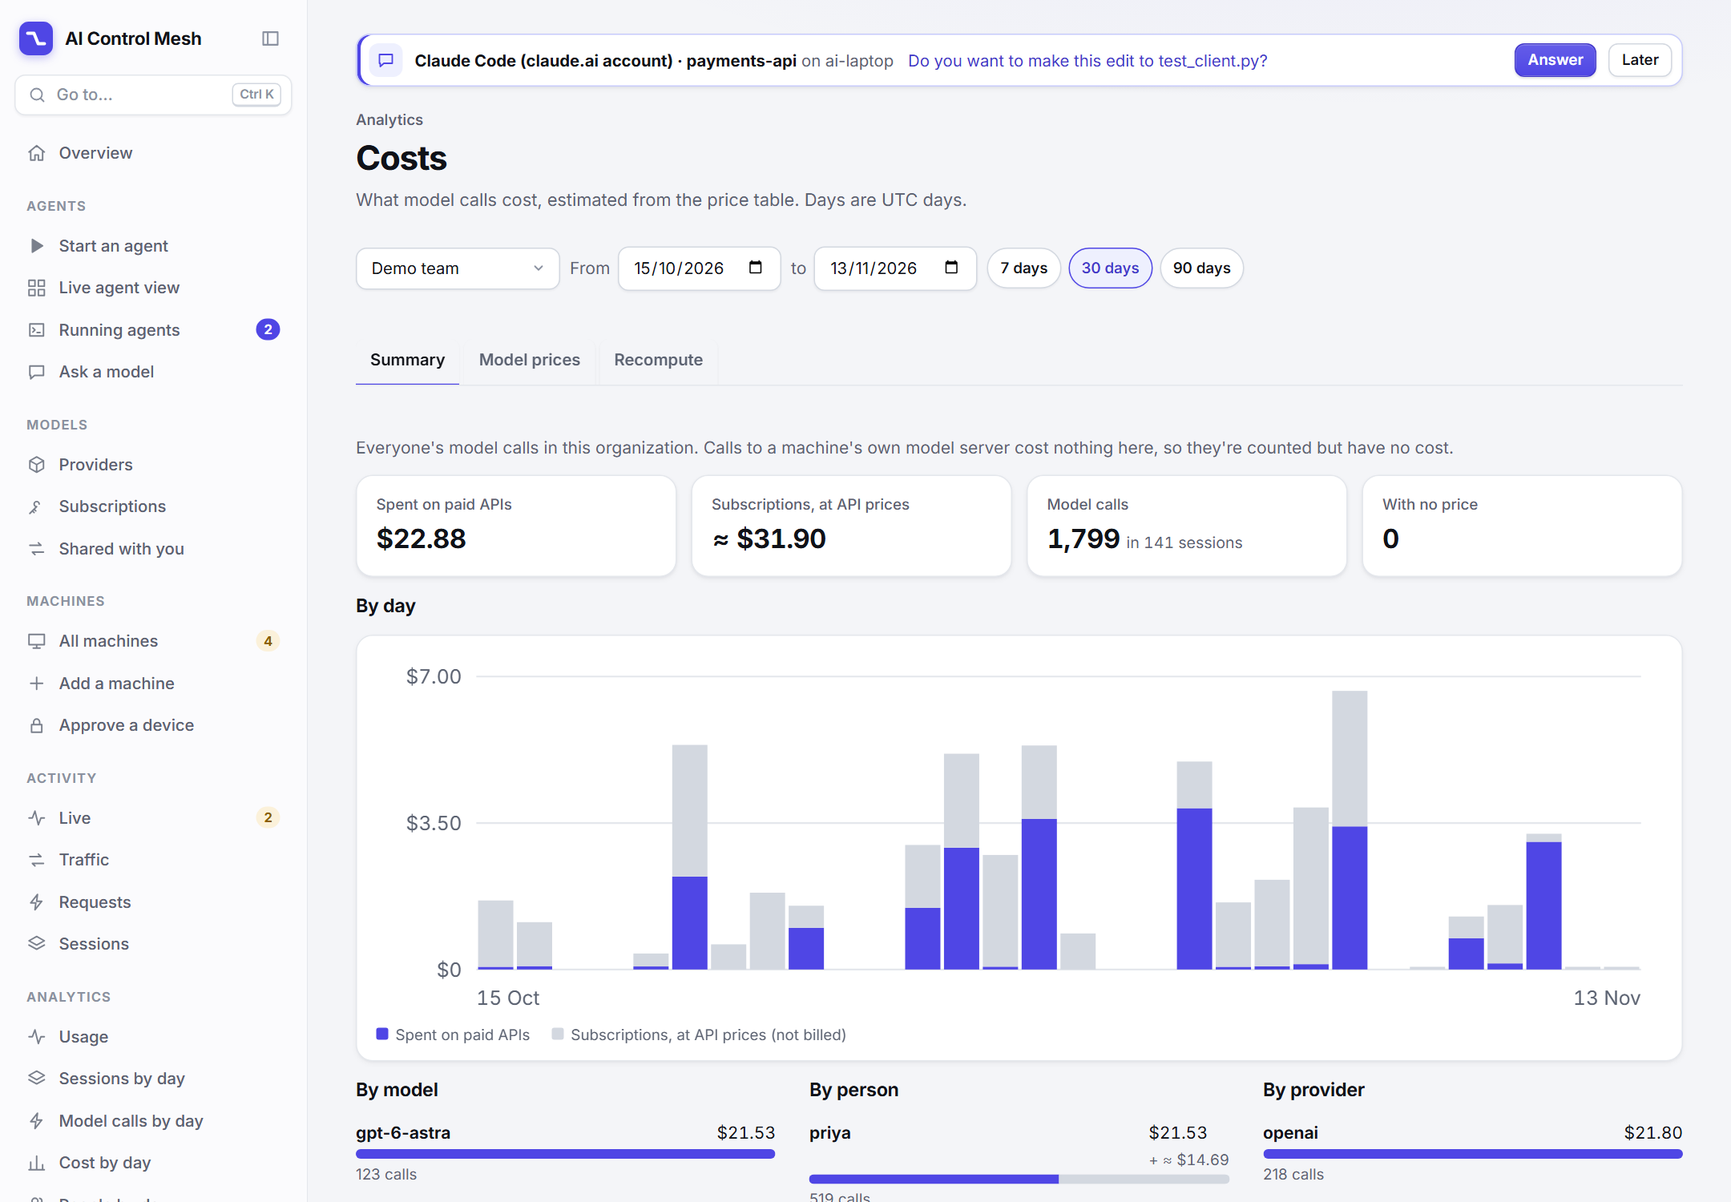
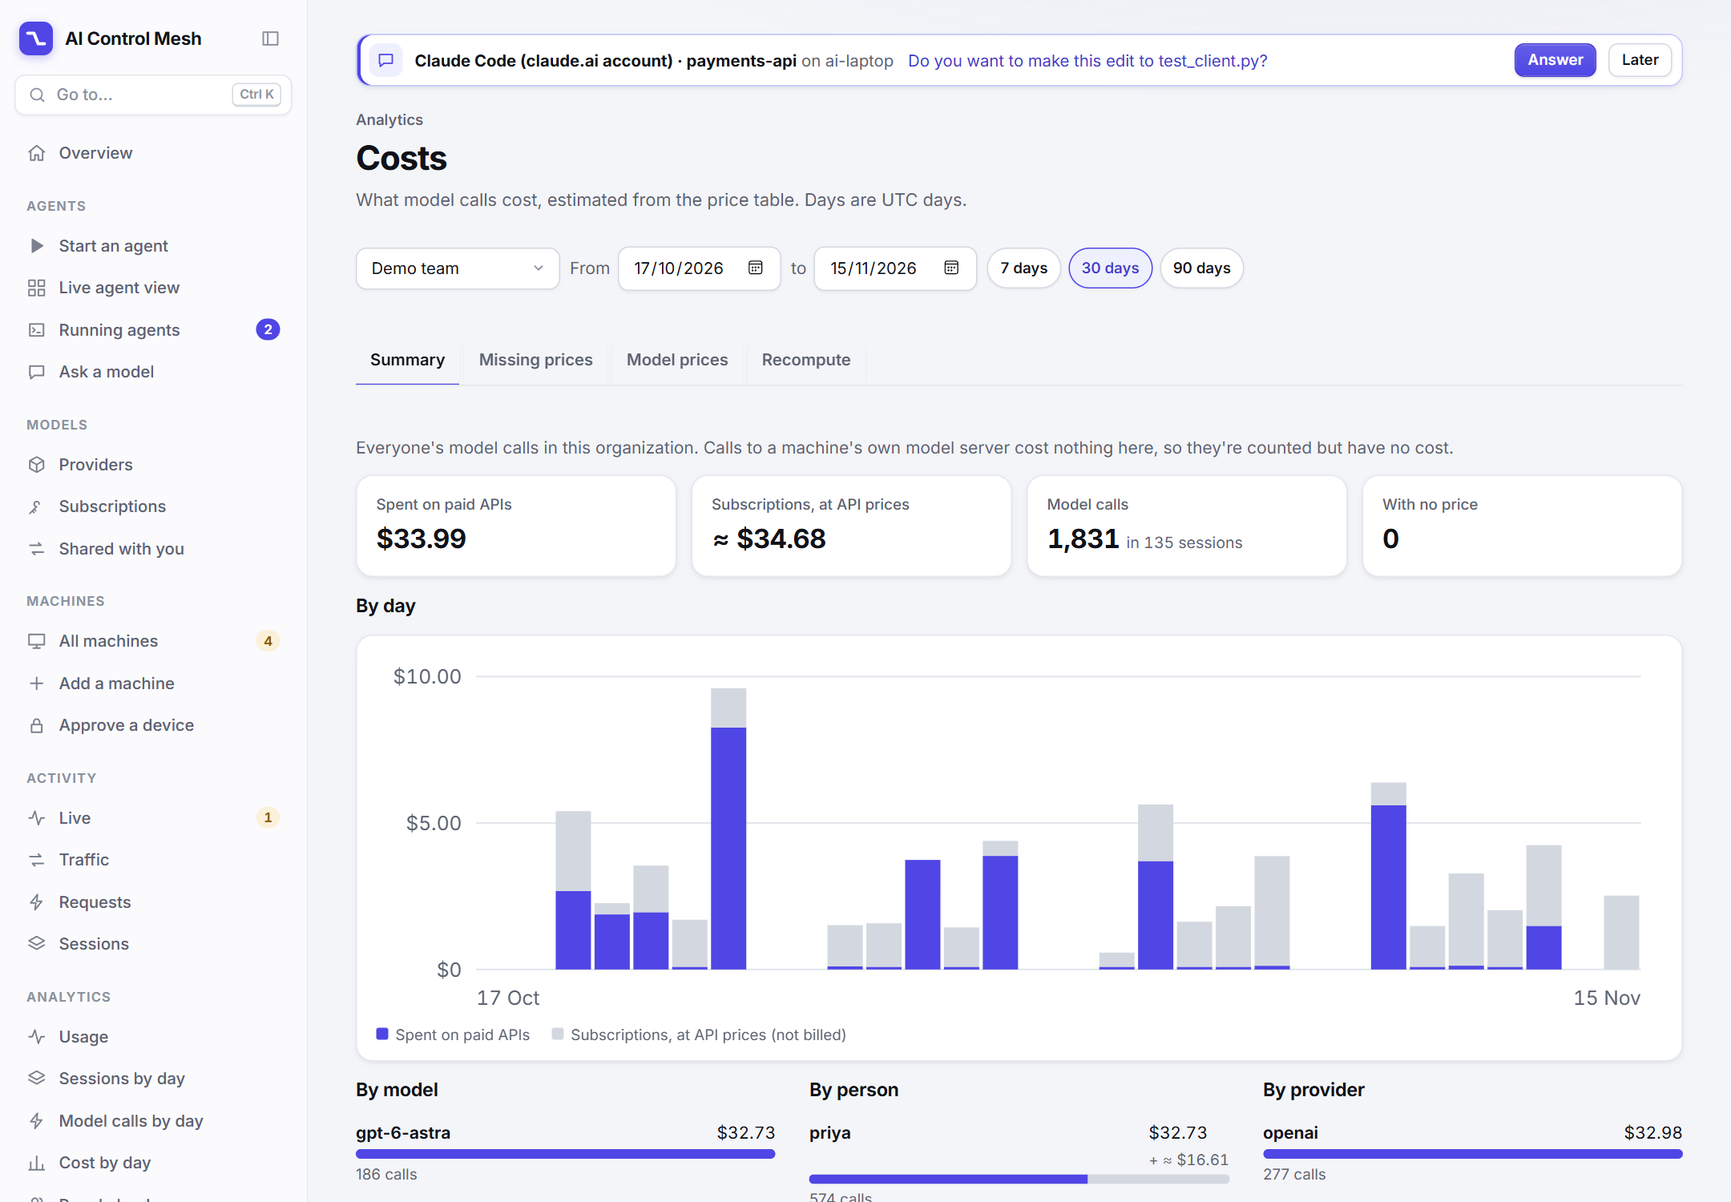
Improve server switching and show missing model prices

diff --git a/ui/src/pages/Costs.tsx b/ui/src/pages/Costs.tsx
@@ -10,7 +10,7 @@ import { TabBar, TabPanel, useTabParam } from "../components/Tabs";
 import { formatCompact, formatNumber, formatUsd } from "../format";
 import { useAuth, useToast } from "../hooks";
 
-const TABS = ["summary", "prices", "recompute"] as const;
+const TABS = ["summary", "missing", "prices", "recompute"] as const;
 
 /** The figure to lead with: money spent, or what subscriptions' calls would cost when nothing was. */
 const spentText = (cost: CostTotals) => (cost.usd > 0 || cost.subscription_usd === 0 ? formatUsd(cost.usd) : `≈ ${formatUsd(cost.subscription_usd)}`);
@@ -35,6 +35,7 @@ function Costs({ identity }: { identity: Identity }) {
   const costs = useQuery({ queryKey: ["org-costs", org, since, until], queryFn: () => api.orgCosts(org, since, until), enabled: valid, retry: false });
   const data = costs.data;
   const manage = data?.manage ?? (identity.site_admin || (identity.role === "admin" && identity.tenant === org));
+  const missing = (data?.models ?? []).filter((item) => item.unpriced > 0);
   const unpriced = (data?.models ?? []).filter((item) => item.unpriced > 0 && item.model).map((item) => item.model);
 
   return (
@@ -55,6 +56,7 @@ function Costs({ identity }: { identity: Identity }) {
         onSelect={setTab}
         tabs={[
           { id: "summary", label: "Summary" },
+          { id: "missing", label: "Missing prices", badge: missing.length ? <span className="tab-badge live">{missing.length}</span> : undefined },
           { id: "prices", label: "Model prices", badge: unpriced.length ? <span className="tab-badge live">{unpriced.length}</span> : undefined },
           { id: "recompute", label: "Recompute" },
         ]}
@@ -68,8 +70,15 @@ function Costs({ identity }: { identity: Identity }) {
         ) : !data ? (
           <p className="empty">Adding up the costs…</p>
         ) : (
-          <Summary data={data} onPrices={() => setTab("prices")} />
+          <Summary data={data} onMissing={() => setTab("missing")} />
         )}
+      </TabPanel>
+
+      <TabPanel idPrefix="costs-" id="missing" active={tab === "missing"} className="cost-panel">
+        {!valid ? <p className="empty">Choose a first and a last day.</p>
+          : costs.isError ? <p className="bad">{costs.error.message}</p>
+          : !data ? <p className="empty">Looking for missing prices…</p>
+          : <MissingPrices data={data} editable={identity.site_admin} onPrices={() => setTab("prices")} onRecompute={() => setTab("recompute")} />}
       </TabPanel>
 
       <TabPanel idPrefix="costs-" id="prices" active={tab === "prices"} keepMounted className="cost-panel">
@@ -87,7 +96,7 @@ function Costs({ identity }: { identity: Identity }) {
   );
 }
 
-function Summary({ data, onPrices }: { data: OrgCosts; onPrices: () => void }) {
+function Summary({ data, onMissing }: { data: OrgCosts; onMissing: () => void }) {
   if (data.requests === 0) return <p className="empty">No model calls were recorded in these days.</p>;
   const tokens = (item: CostTotals) => `${formatCompact(item.input_tokens)} tokens in, ${formatCompact(item.output_tokens)} out`;
   return (
@@ -121,8 +130,8 @@ function Summary({ data, onPrices }: { data: OrgCosts; onPrices: () => void }) {
           <span>
             <strong>{formatNumber(data.unpriced)} model calls had no price</strong>, so the totals leave them out. Give their models a price, then recompute these days.
           </span>
-          <button type="button" onClick={onPrices}>
-            Model prices
+          <button type="button" onClick={onMissing}>
+            View missing prices
           </button>
         </div>
       )}
@@ -147,6 +156,47 @@ function Summary({ data, onPrices }: { data: OrgCosts; onPrices: () => void }) {
         </section>
       </div>
     </div>
+  );
+}
+
+function MissingPrices({ data, editable, onPrices, onRecompute }: {
+  data: OrgCosts; editable: boolean; onPrices: () => void; onRecompute: () => void;
+}) {
+  const [search, setSearch] = useState("");
+  const missing = data.models.filter((item) => item.unpriced > 0)
+    .sort((a, b) => b.unpriced - a.unpriced || a.model.localeCompare(b.model));
+  const rows = missing.filter((item) => (item.model || "Unknown model").toLowerCase().includes(search.trim().toLowerCase()));
+  return (
+    <section className="section stack">
+      <h2>Models with missing prices</h2>
+      <p className="subtle">
+        {data.manage ? "For this organization" : "For your own sessions"} in the selected days. These calls used tokens but had no recorded price,
+        so cost totals leave them out. Local models and calls with no token usage are not missing prices.
+        A price added since the call was recorded takes effect here after recomputing these days.
+      </p>
+      <div className="row wrap">
+        <button type="button" onClick={onPrices}>{editable ? "Edit model prices" : "View model prices"}</button>
+        {data.manage && <button type="button" onClick={onRecompute}>Recompute these days</button>}
+      </div>
+      {!editable && <p className="subtle">Ask a site admin to add missing model prices. An organization admin can then recompute its costs.</p>}
+      {!missing.length ? <p className="empty">No missing prices in the selected days.</p> : <>
+        <label className="filters">
+          <span>Find a model</span>
+          <input type="search" value={search} onChange={(event) => setSearch(event.target.value)} placeholder="Model name" />
+        </label>
+        <p className="subtle">{formatNumber(rows.length)} of {formatNumber(missing.length)} model entries · {formatNumber(data.unpriced)} calls without a price in total.</p>
+        {!rows.length ? <p className="empty">No models match your search.</p> : <div className="table-scroll">
+          <table className="table">
+            <thead><tr><th scope="col">Model</th><th scope="col" className="num">Calls without a price</th><th scope="col" className="num">All calls</th></tr></thead>
+            <tbody>{rows.map((item) => <tr key={item.model}>
+              <td>{item.model ? <span className="mono">{item.model}</span> : <>Unknown model <span className="subtle">— no model name was recorded</span></>}</td>
+              <td className="num">{formatNumber(item.unpriced)}</td>
+              <td className="num">{formatNumber(item.requests)}</td>
+            </tr>)}</tbody>
+          </table>
+        </div>}
+      </>}
+    </section>
   );
 }
 

diff --git a/android/app/src/main/java/dev/agentproxy/app/ConsoleActivity.kt b/android/app/src/main/java/dev/agentproxy/app/ConsoleActivity.kt
@@ -2,6 +2,7 @@ package dev.agentproxy.app
 
 import android.annotation.SuppressLint
 import android.app.Activity
+import android.app.AlertDialog
 import android.content.ActivityNotFoundException
 import android.content.Intent
 import android.graphics.Bitmap
@@ -10,6 +11,7 @@ import android.net.Network
 import android.net.Uri
 import android.os.Bundle
 import android.view.View
+import android.view.ViewGroup
 import android.webkit.CookieManager
 import android.webkit.WebChromeClient
 import android.webkit.WebResourceError
@@ -22,7 +24,7 @@ import android.widget.ProgressBar
 import android.widget.TextView
 
 /**
- * One server's console, full screen. It opens on Running agents; the console itself is
+ * One server's console with a native server picker. It opens on Running agents; the console itself is
  * built for phones (its menu, terminal keys and input box). Sign-in is the console's own,
  * kept in the WebView's cookies. Links to other sites open in the browser.
  */
@@ -51,6 +53,13 @@ class ConsoleActivity : Activity() {
         web = findViewById(R.id.web)
         val progress = findViewById<ProgressBar>(R.id.progress)
         offline = findViewById(R.id.offline)
+        val serverName = intent.getStringExtra(EXTRA_NAME) ?: Uri.parse(url).host ?: url
+        findViewById<TextView>(R.id.current_server_name).text = serverName
+        findViewById<TextView>(R.id.current_server_url).text = url
+        findViewById<View>(R.id.server_switcher).apply {
+            contentDescription = getString(R.string.switch_server_description, serverName, url)
+            setOnClickListener { showServerPicker() }
+        }
         findViewById<Button>(R.id.retry).setOnClickListener { retry() }
         findViewById<Button>(R.id.servers).setOnClickListener { showServers() }
         resetOfflineTitle()
@@ -153,6 +162,10 @@ class ConsoleActivity : Activity() {
     override fun onDestroy() {
         network?.let { getSystemService(ConnectivityManager::class.java)?.unregisterNetworkCallback(it) }
         network = null
+        if (::web.isInitialized) {
+            (web.parent as? ViewGroup)?.removeView(web)
+            web.destroy()
+        }
         super.onDestroy()
     }
 
@@ -220,6 +233,29 @@ class ConsoleActivity : Activity() {
                 }
             }
         }.start()
+    }
+
+    private fun showServerPicker() {
+        val store = ServerStore(this)
+        val servers = store.all()
+        val labels = servers.map { "${it.name}\n${it.url}" }.toTypedArray()
+        AlertDialog.Builder(this)
+            .setTitle(R.string.switch_server)
+            .setSingleChoiceItems(labels, servers.indexOfFirst { it.url == url }) { dialog, index ->
+                dialog.dismiss()
+                val selected = servers[index]
+                if (selected.url != url) {
+                    store.last = selected.url
+                    // A fresh WebView keeps history and sign-in discovery scoped to the chosen server.
+                    startActivity(Intent(this, ConsoleActivity::class.java)
+                        .putExtra(EXTRA_URL, selected.url)
+                        .putExtra(EXTRA_NAME, selected.name))
+                    finish()
+                }
+            }
+            .setNeutralButton(R.string.manage_servers) { _, _ -> showServers() }
+            .setNegativeButton(R.string.cancel, null)
+            .show()
     }
 
     private fun showServers() {

diff --git a/ui/src/components/SessionReview.tsx b/ui/src/components/SessionReview.tsx
@@ -545,11 +545,11 @@ function Evidence({ review }: { review: Review }) {
           head={["Model", "Tier", "Calls", "Tokens read", "Tokens written", "Estimated cost"]}
           rows={traffic.models.map((item) => [
             item.model ?? "unknown",
-            TIER[item.tier].label,
+            item.tier == null ? "No token usage" : TIER[item.tier].label,
             formatNumber(item.calls),
             formatNumber(item.input_tokens),
             formatNumber(item.output_tokens),
-            item.tier === "local" ? "none" : item.tier === "unpriced" ? "no price" : formatUsd(item.usd),
+            item.tier == null || item.tier === "local" ? "none" : item.tier === "unpriced" ? "no price" : formatUsd(item.usd),
           ])}
           note="A tier comes from the model's list price for input in the server's price table: frontier is the most expensive, then mid-range and small. Local is a machine's own model."
         />

diff --git a/ui/src/api.ts b/ui/src/api.ts
@@ -325,7 +325,8 @@ export interface SessionReview {
     /** Estimated dollars: paid by the token, and an account agent's calls at API prices. */
     usd: number;
     subscription_usd: number;
-    models: { model: string | null; tier: ModelTier; calls: number; input_tokens: number; output_tokens: number; usd: number }[];
+    /** Calls with no token usage have no pricing tier. */
+    models: { model: string | null; tier: ModelTier | null; calls: number; input_tokens: number; output_tokens: number; usd: number }[];
     /** The model calls by tier, most expensive tier first; share is of the session's model calls. */
     tiers: { tier: ModelTier; calls: number; share: number; input_tokens: number; output_tokens: number; usd: number; models: string[] }[];
   };

diff --git a/.context/android.md b/.context/android.md
@@ -1,6 +1,6 @@
 # Android app (`android/`)
 
-A thin native shell, package `dev.agentproxy.app`: a list of agent-servers, and each one's console full screen in a WebView. Release features are the console's. Debug builds also have a private Android Auto session monitor. There is no JS bridge, and the console has no Android-specific code.
+A thin native shell, package `dev.agentproxy.app`: a list of agent-servers, and each one's console in a WebView below a native server switcher. Release features are the console's. Debug builds also have a private Android Auto session monitor. There is no JS bridge, and the console has no Android-specific code.
 
 ## Design rules
 
@@ -21,6 +21,7 @@ A thin native shell, package `dev.agentproxy.app`: a list of agent-servers, and 
 
 ## WebView behaviour (`ConsoleActivity.kt`)
 
+- A persistent server bar shows the saved name and URL and opens a single-choice picker with the current server checked. It stays outside the WebView and offline panel, including during sign-in. Picking another server updates `ServerStore.last`, opens a fresh `ConsoleActivity` on Running agents and finishes the previous activity; its WebView is destroyed so histories, discovery and live connections do not accumulate across switches. Cookies remain intact. Selecting the current server or cancelling leaves the page alone. Manage servers returns to `ServersActivity` with `EXTRA_STAY`.
 - JavaScript and DOM storage on (the console keeps its theme and terminal settings in localStorage), `textZoom=100`, user agent with `AgentProxyAndroid/<version>` appended.
 - Cookies are accepted and flushed in `onPageFinished` and `onPause`, so the sign-in survives restarts.
 - Before loading, `authIssuer()` (in `Servers.kt`) fetches the selected API's public auth status without redirects. It returns `SignIn(issuer, apis)`: `apis` is the chosen address plus the plain-HTTPS hosts of the status's `redirect_uris` (split hosting: the app is given `aicontrolmesh.com`, the console calls `api.aicontrolmesh.com`; older servers don't send them). `isOidcNavigation` keeps only that HTTPS issuer and those APIs' login/callback paths in the WebView; both survive rotation. An issuer that isn't plain HTTPS (no user info, query or fragment) counts as a failure, so the HTTP issuer of `deploy/compose/` can't be used from the app. Discovery failure shows an explicit sign-in error; Retry repeats discovery. Removing a server (`ServersActivity.forgetSignIn`) expires `ai_proxy_session`, `ai_proxy_remote`, `mesh_oidc_state`, `mesh_accounts` (every account the console holds) and `mesh_refresh` (an older console's one sign-in).

diff --git a/docs/analytics.md b/docs/analytics.md
@@ -15,7 +15,7 @@ This page covers the console's **Analytics** section, the token and cost columns
 | Which model costs the most? | **Cost by day**, split by **Model** |
 | What did one provider cost us? | **Costs and prices** › **Summary** › **By provider** |
 | Which sessions did the money go to? | **Sessions**, sorted by **Cost**; or **Sessions that cost the most** under any chart |
-| A model shows no cost. Why? | **Costs and prices** › **Model prices** lists models used with no price |
+| A model shows no cost. Why? | **Costs and prices** › **Missing prices** lists models used with no recorded price |
 | We changed a price. How do old calls get it? | **Costs and prices** › **Recompute** |
 
 ## Who sees what
@@ -67,6 +67,7 @@ A session or person counts once in each model, provider or agent they used. Spli
 ![Costs and prices](screenshots/costs.png)
 
 - **Summary**: what the organization's model calls cost in the chosen days, by day, model, person and provider, and how many calls had no price.
+- **Missing prices**: a searchable list of models with unpriced calls in the selected organization and days, ordered by the number of unpriced calls. It shows calls without a price beside all calls for each model, including an **Unknown model** row when no name was recorded. Members see only their own sessions. Local models and calls with no token usage are excluded. Follow **Edit model prices** (site admins) or **View model prices**, then **Recompute these days** (organization admins) after prices have been added. A recorded call stays in this list until it is recomputed with a matching price.
 - **Model prices**: the server's price table. Site admins edit it here; everyone else can read it. Models that were used with no price are listed above the table, each with a button that adds its row.
 - **Recompute**: prices recorded calls again at today's prices. An organization's admins do it for their organization.
 

diff --git a/.context/console.md b/.context/console.md
@@ -41,6 +41,10 @@ flowchart TB
 
 ## Data layer
 
+`Costs.tsx` exposes `?tab=missing` (Missing prices), filtering the existing `org-costs` report's model rows by `unpriced > 0`, sorted by unpriced calls. It includes unnamed models, supports name search, and follows the same organization/date scope and server permissions as Summary. It does not match price patterns or infer missing prices from zero cost; recompute refreshes the report after prices change.
+
+Session review model rows can have a null `tier` when none of their calls used tokens. `SessionReview` shows these as No token usage without indexing the tier labels; they are distinct from paid models with no price. The server's aggregated `traffic.tiers` contains only classified calls.
+
 Machine setup codes grant one use per computer even when both programs are installed: their login is shared. The Machines page accepts 1-100 machines, sends that count as uses, and asks for one device approval in the native and sandbox instructions. Both setup-code environment variables remain in native commands because either program can sign in first.
 
 `ServerStats` OS measurements can be null on restricted systems such as Termux. `ServerStatsPage` preserves null chart samples, omits meters without usable measurements and labels missing memory and uptime data as unavailable; it never converts a denied probe into zero usage. A CPU count of 0 is unavailable, so the process CPU chart cannot be normalized then.

diff --git a/android/README.md b/android/README.md
@@ -1,7 +1,7 @@
 # AI Control Mesh for Android
 
 Watch and drive your coding agents from your phone. The app keeps a list of your
-agent-servers and opens each one's console full screen, on **Running agents**: read an
+agent-servers and opens each one's console on **Running agents**: read an
 agent's screen, answer its prompts, start agents on your machines, and see the traffic.
 
 It's a native shell around the console (`../ui`): the console is built for phones, so
@@ -12,6 +12,11 @@ Debug builds also include a private Android Auto session monitor; see below.
 - **Your servers.** Add a server by its address (`http://192.168.1.10:9999`, a Tailscale
   name, or HTTPS). The app checks it's an agent-server before saving it, and shows
   whether each is online.
+- **Switch servers.** Tap the server bar above the console, then choose a saved server.
+  Names and addresses distinguish servers, and the current one is marked. The bar stays
+  available during sign-in and when a server is offline. **Manage servers** opens the
+  list to add or remove one. Switching opens **Running agents**, keeps saved sign-ins,
+  and makes that server the one opened next time you start the app.
 - **Signing in** is mandatory OIDC. The app discovers the chosen API's HTTPS issuer and
   keeps its sign-in and API callback in the WebView, on this phone only. OAuth access
   and refresh cookies are not backed up; legacy pairing codes no longer grant access.

diff --git a/docs/session-review.md b/docs/session-review.md
@@ -61,7 +61,7 @@ Searches and reads made through a shell count as what they do: `rg`, `grep`, `fi
 
 Under the checks are the numbers they were made from. Three pictures: **the context, call by call** (the main chat's calls, so sub-agents don't blur it), **what the main chat's context holds**, split into the system prompt, tool definitions, tool results, tool calls, the agent's replies, its thinking, the messages typed and the notes the agent adds, and **model calls by tier**. Then tables that open:
 
-- **Models**: each model the session called, its tier, its calls, the tokens it read and wrote, and its estimated cost.
+- **Models**: each model the session called, its tier, its calls, the tokens it read and wrote, and its estimated cost. Calls with no token usage, such as requests refused before reaching a model, have no tier. Their rows show **No token usage** and stay out of the tier chart.
 
 - **The system prompt's sections**: each Markdown heading or XML-style tag starts a section; the largest twelve, with their sizes. This is where to look before trimming an instruction file.
 - **Tool definitions**: the largest ones, how many were never called, and each MCP server's tools and calls.

diff --git a/docs/accounts.md b/docs/accounts.md
@@ -166,6 +166,12 @@ To set it up on a server you reach over your network:
 
 Authentication cannot be disabled by removing users.
 
+In the Android app, tap **Switch server** in the bar above the console to choose
+another saved server. The picker shows each name and address and marks the current
+server. It also works during sign-in or when the server is offline. Switching opens
+**Running agents** on that server and keeps saved sign-ins. The app reopens the last
+server you chose on its next start. Choose **Manage servers** to add or remove one.
+
 Open a running agent to see its terminal:
 
 - **Send** types your message, then presses Enter as a separate keystroke, so agents don't read it as a paste. Multi-line text is sent as a bracketed paste once the agent has turned that on.
